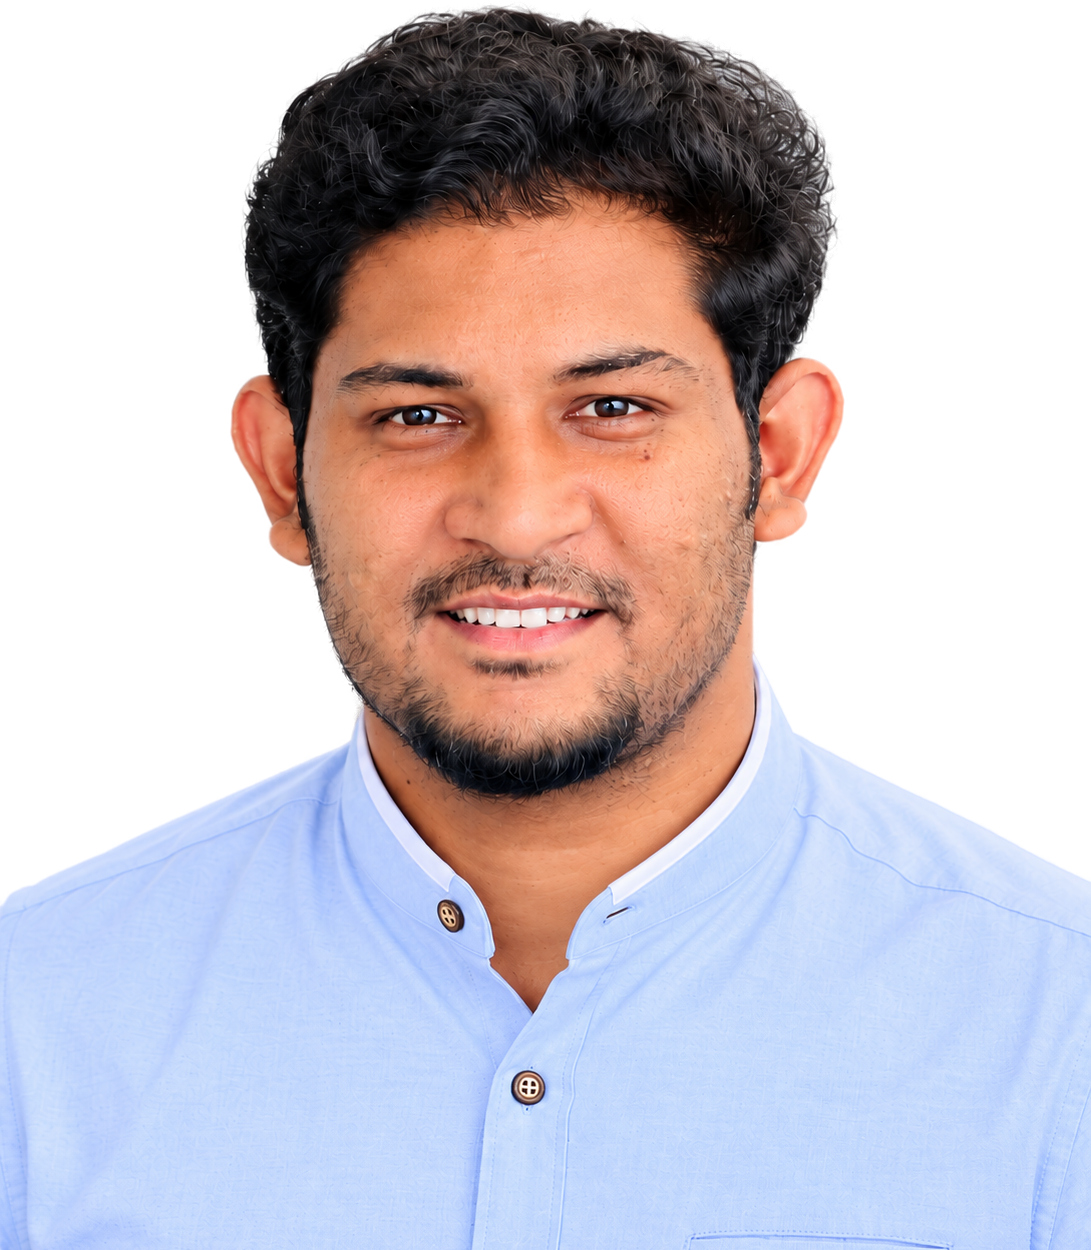
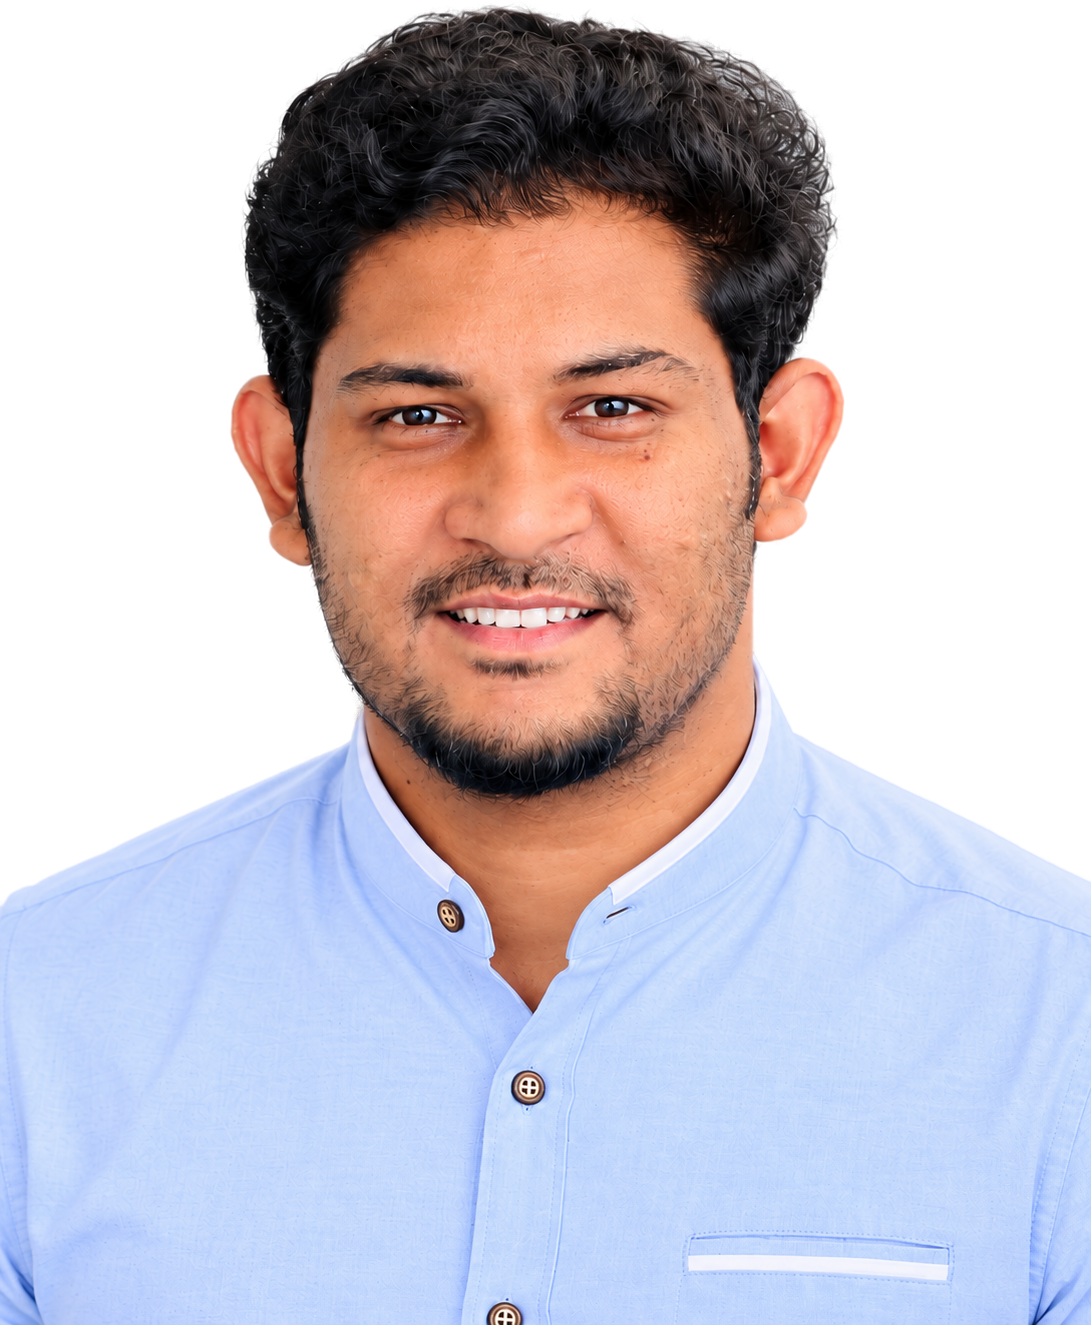
About card: zoom the photo out and soften the shoulder edges
Claude-Session: https://claude.ai/code/session_012Gt6r9shSSEFMAuLwCnhPu

diff --git a/src/app/components/About.tsx b/src/app/components/About.tsx
@@ -120,7 +120,7 @@ function ProfileCard() {
               style={isCutout ? { transform: `translateX(-${PHOTO_FACE_X}%)` } : undefined}
               className={
                 isCutout
-                  ? "absolute bottom-0 left-1/2 z-[1] h-[92%] w-auto max-w-none object-contain"
+                  ? "absolute bottom-0 left-1/2 z-[1] h-[84%] w-auto max-w-none object-contain [mask-image:linear-gradient(to_right,transparent_0%,black_14%,black_86%,transparent_100%)]"
                   : "absolute inset-0 z-[1] h-full w-full object-cover object-[50%_25%]"
               }
             />
